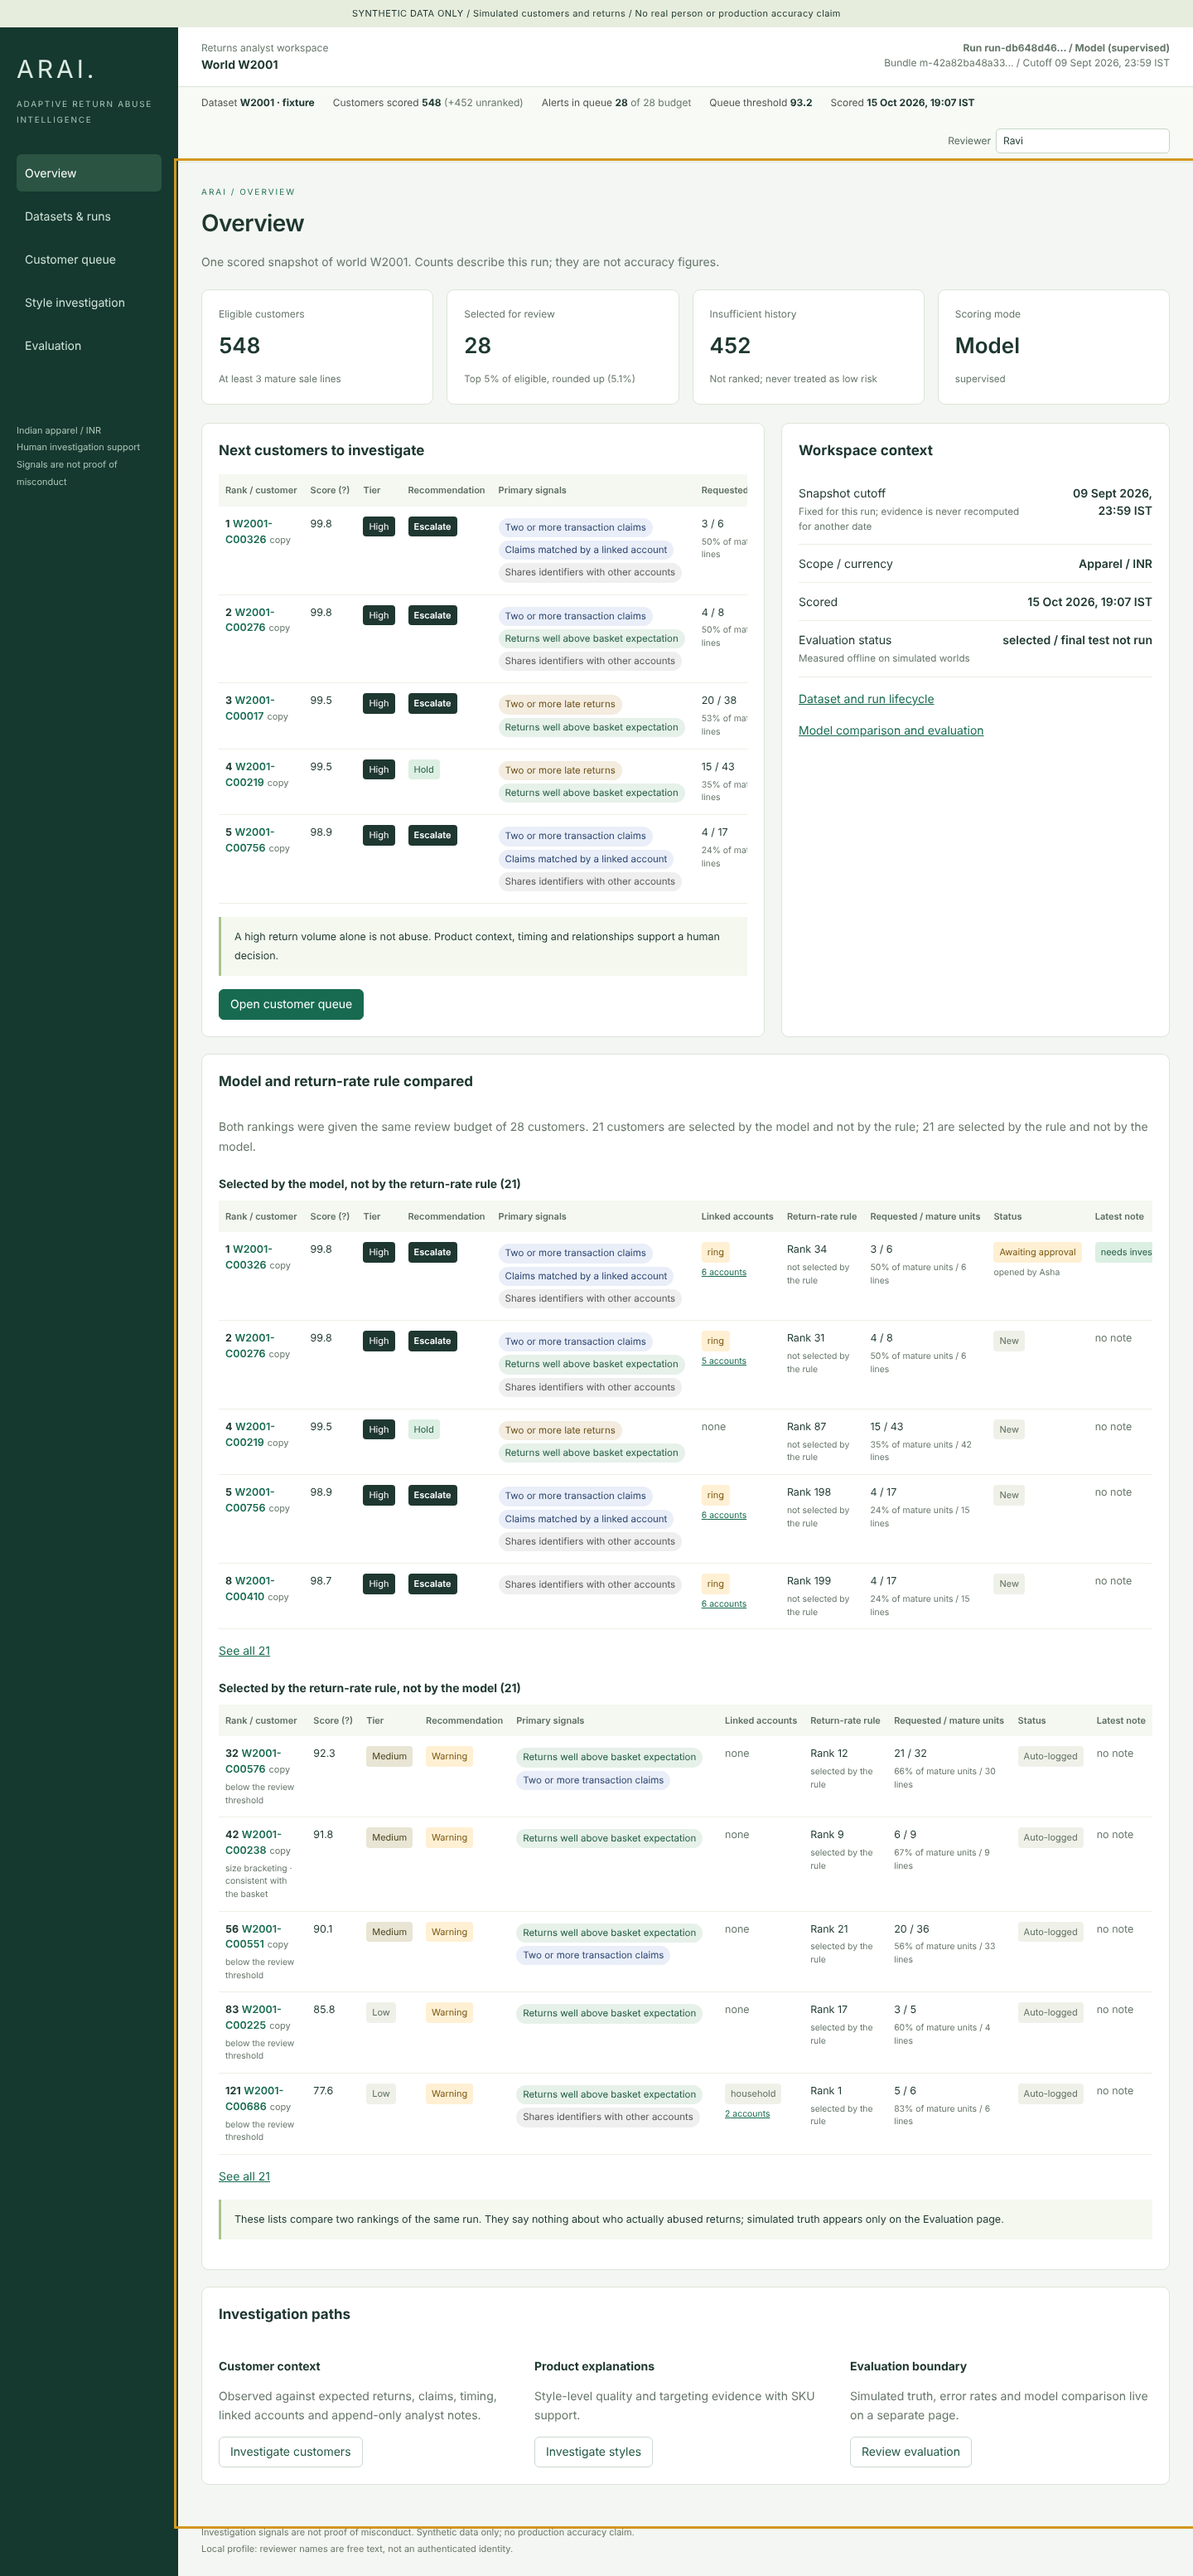
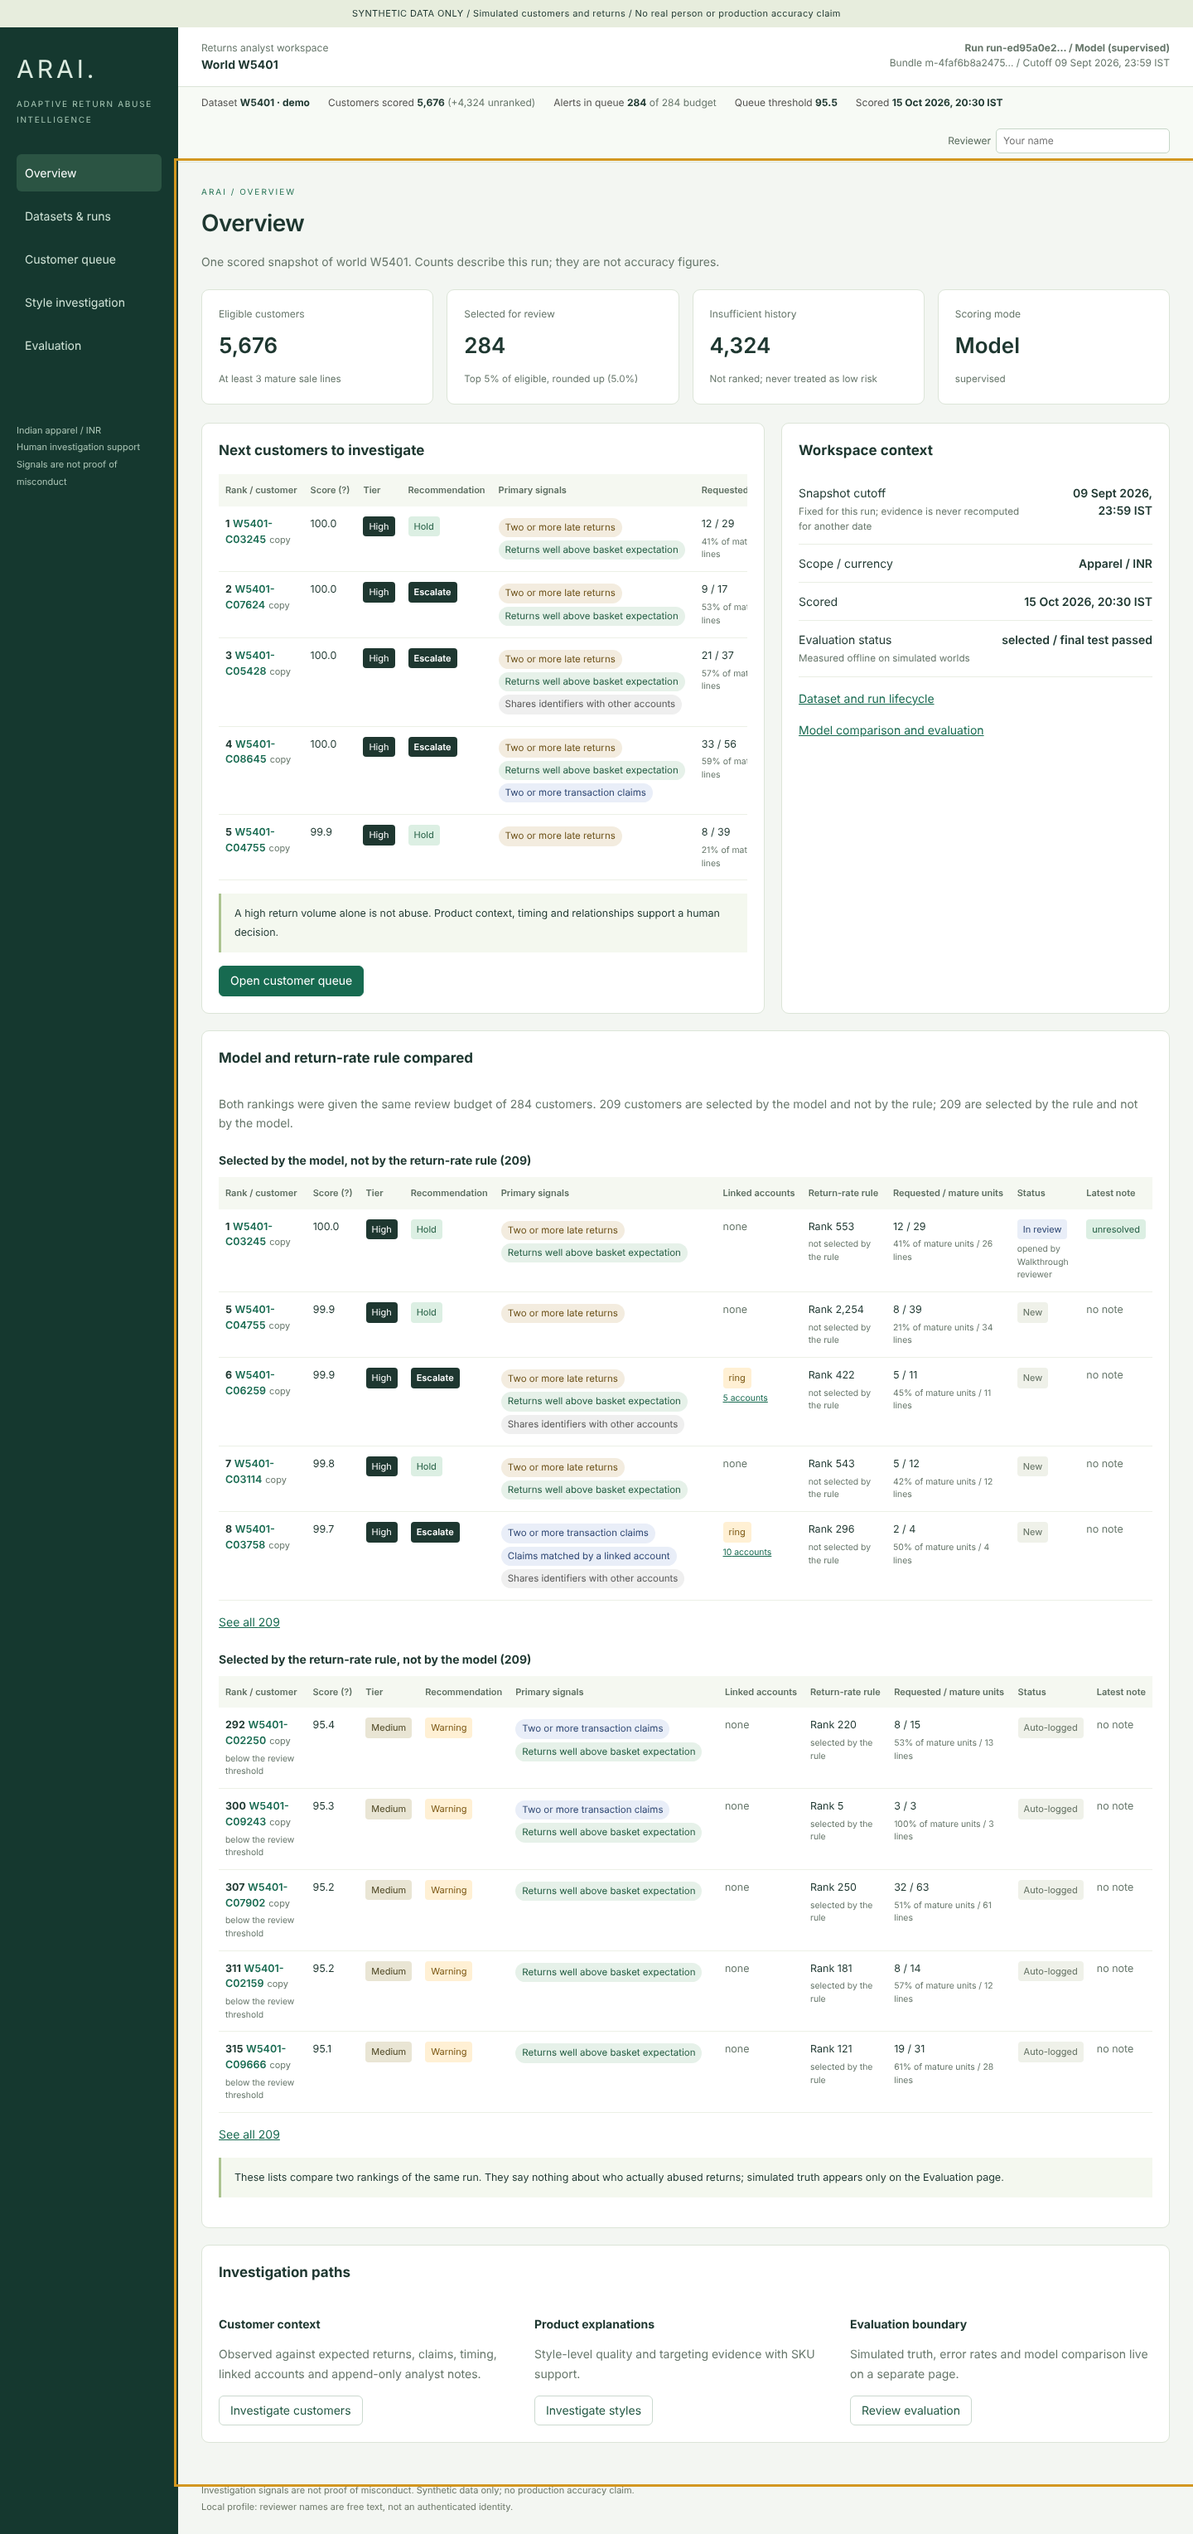
Walkthrough on W5401: 54 of 54 checks, screenshots and result
The browser walkthrough now tolerates a case an earlier run left in review,
finds the notes tab when it carries a count, reads the rule-only comparison
from the table body, checks reason codes while the returns tab is open, and
treats the staged second-reviewer 409 as an expected refusal. Screenshots
and walkthrough-result.json for W5401 are added to reports/ui/2026-10-15
with a README note on which files come from which run.

Claude-Session: https://claude.ai/code/session_019a4qTGBbdKJm16qfQ6WgBL

diff --git a/tests/e2e/walkthrough.py b/tests/e2e/walkthrough.py
@@ -12,6 +12,7 @@ saves screenshots under reports/ui/<date>/.
 from __future__ import annotations
 
 import json
+import re
 import os
 import sys
 import time
@@ -95,8 +96,9 @@ with sync_playwright() as pw:
     check("keyboard filter change updates the address", "show=all" in page.url, page.url)
     page.get_by_label("Model and return-rate rule").select_option("baseline_only")
     settle(page)
-    text = main_text(page)
-    check("comparison filter lists rule-only selections", "comparison=baseline_only" in page.url and "not selected" in text)
+    body = page.locator("main table tbody").inner_text()
+    check("comparison filter lists rule-only selections",
+          "comparison=baseline_only" in page.url and "selected by the rule" in body and "Escalate" not in body and "Hold" not in body, body[:120])
     shot(page, "03-queue-rule-only")
     page.get_by_label("Model and return-rate rule").select_option("all")
     page.get_by_label("Show").select_option("review")
@@ -125,12 +127,13 @@ with sync_playwright() as pw:
     check("case shows no truth", not any(w in text.lower() for w in TRUTH_WORDS))
     shot(page, "05-case-evidence")
     for tab, key in (("returns", "tab=returns"), ("linked accounts", "tab=linked+accounts"), ("notes", "tab=notes")):
-        page.get_by_role("tab", name=tab, exact=True).focus()
+        page.get_by_role("tab", name=re.compile(rf"^{tab}( \(\d+\))?$")).focus()   # notes carries its count
         page.keyboard.press("Enter")
         settle(page)
         check(f"case tab {tab} opens from the keyboard", key in page.url, page.url)
+        if tab == "returns":
+            check("return behaviour shows reason codes, never free text", "Reason code" in main_text(page) or "No return request" in main_text(page))
         shot(page, f"06-case-{tab.replace(' ', '-')}")
-    check("return behaviour shows reason codes, never free text", "Reason code" in page.locator("main").inner_text() or "No return request" in main_text(page))
     stamp = str(int(time.time()))
     page.get_by_label("Reviewer name").fill("Walkthrough reviewer")                       # the run strip; the decision panel reads it
     page.get_by_label("Your reading").select_option("unresolved")
@@ -144,9 +147,10 @@ with sync_playwright() as pw:
     check("note persists after reload", f"Walkthrough note {stamp}" in main_text(page))
     shot(page, "07-case-notes")
     # the second-person rule, on stage: the reviewer who opens a case cannot approve it; the server's words are shown
-    page.get_by_label("Note (required with every action)").fill(f"Walkthrough open {stamp}.")
-    page.get_by_role("button", name="Open case").click()
-    page.wait_for_function("document.querySelector('main').innerText.includes('In review')", timeout=15000)
+    if page.get_by_role("button", name="Open case").count():       # an earlier walkthrough may have left the case in review
+        page.get_by_label("Note (required with every action)").fill(f"Walkthrough open {stamp}.")
+        page.get_by_role("button", name="Open case").click()
+        page.wait_for_function("document.querySelector('main').innerText.includes('In review')", timeout=15000)
     page.get_by_label("Note (required with every action)").fill(f"Walkthrough approve {stamp}.")
     page.get_by_role("button", name="Approve", exact=True).click()
     page.wait_for_function("document.querySelector('main').innerText.includes('second_reviewer_required')", timeout=15000)
@@ -226,10 +230,11 @@ with sync_playwright() as pw:
     check("no horizontal page scroll on a phone-width screen", overflow <= 2, overflow)
     shot(page, "12-overview-narrow")
 
-    expected_failures = [r for r in failed_requests if "run-does-not-exist" in r]
+    # the unknown run's 404 and the staged second-reviewer 409 are the two refusals this walkthrough asks for
+    expected_failures = [r for r in failed_requests if "run-does-not-exist" in r or (r.startswith("409 ") and r.endswith("/reviews"))]
     unexpected = [r for r in failed_requests if r not in expected_failures]
     check("no unexpected failed request", not unexpected, unexpected[:3])
-    real_errors = [e for e in console_errors if "run-does-not-exist" not in e and "404" not in e]
+    real_errors = [e for e in console_errors if "run-does-not-exist" not in e and "404" not in e and "409" not in e]
     check("no console error", not real_errors, real_errors[:3])
     browser_version = browser.version
     browser.close()

diff --git a/reports/ui/2026-10-15/README.md b/reports/ui/2026-10-15/README.md
@@ -8,3 +8,17 @@ Asha, who opened the case, tries to approve it and the server's refusal is shown
 No API key was set, so every investigation memo reads `unavailable` by design; the screens are meant to look right
 that way. The evaluation report is a smoke stub with the truth export, so the hero curves draw and the scorecard
 tables read n/a.
+
+## Browser walkthrough on W5401 (same day, later)
+
+`tests/e2e/walkthrough.py` was then run against `arai local` serving the regenerated experiment 4 bundle with the
+demonstration world W5401 registered and scored (10,000 customers; run `run-ed95a0e2fd3e49a69d4d`). Result:
+54 of 54 checks passed; `walkthrough-result.json` holds every check. The walkthrough wrote its own screenshots into
+this folder, so `01-overview.png` and `06-case-returns.png` now show W5401 rather than the fixture world, and the
+files `02-datasets-and-runs`, `03-queue-rule-only`, `04-queue-search`, `05-case-evidence`, `06-case-linked-accounts`,
+`06-case-notes`, `07-case-notes`, `07b-case-refusal`, `08-styles-targeting`, `09-style-detail`, `10-evaluation`,
+`11-evaluation-truth` and `12-overview-narrow` come from it. The remaining files are the fixture-world smoke set
+described above.
+
+The walkthrough's only expected request failures are the unknown run's 404 and the staged 409 on `/reviews`
+(the second-reviewer rule). No API key was set, so memos read `unavailable` here too.
